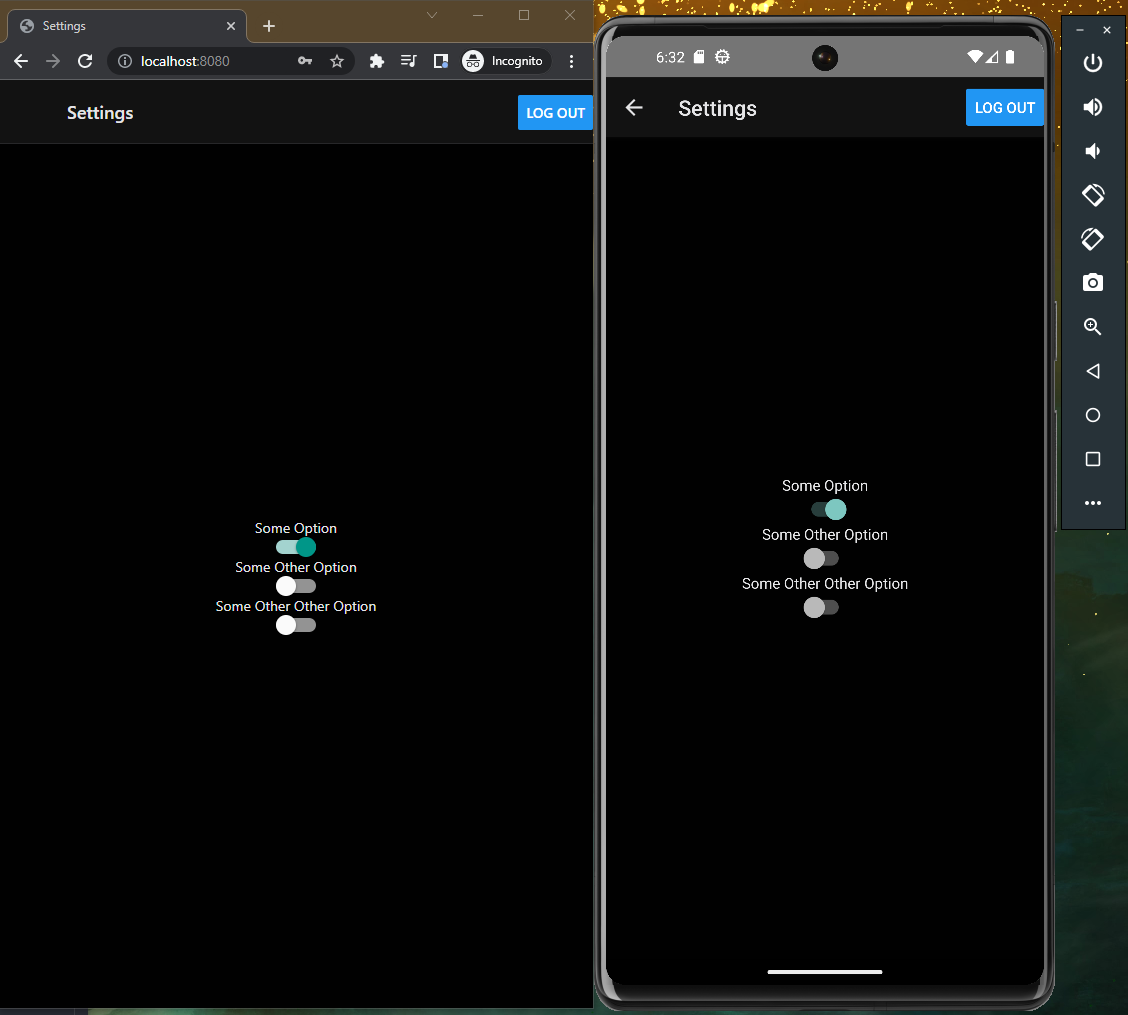
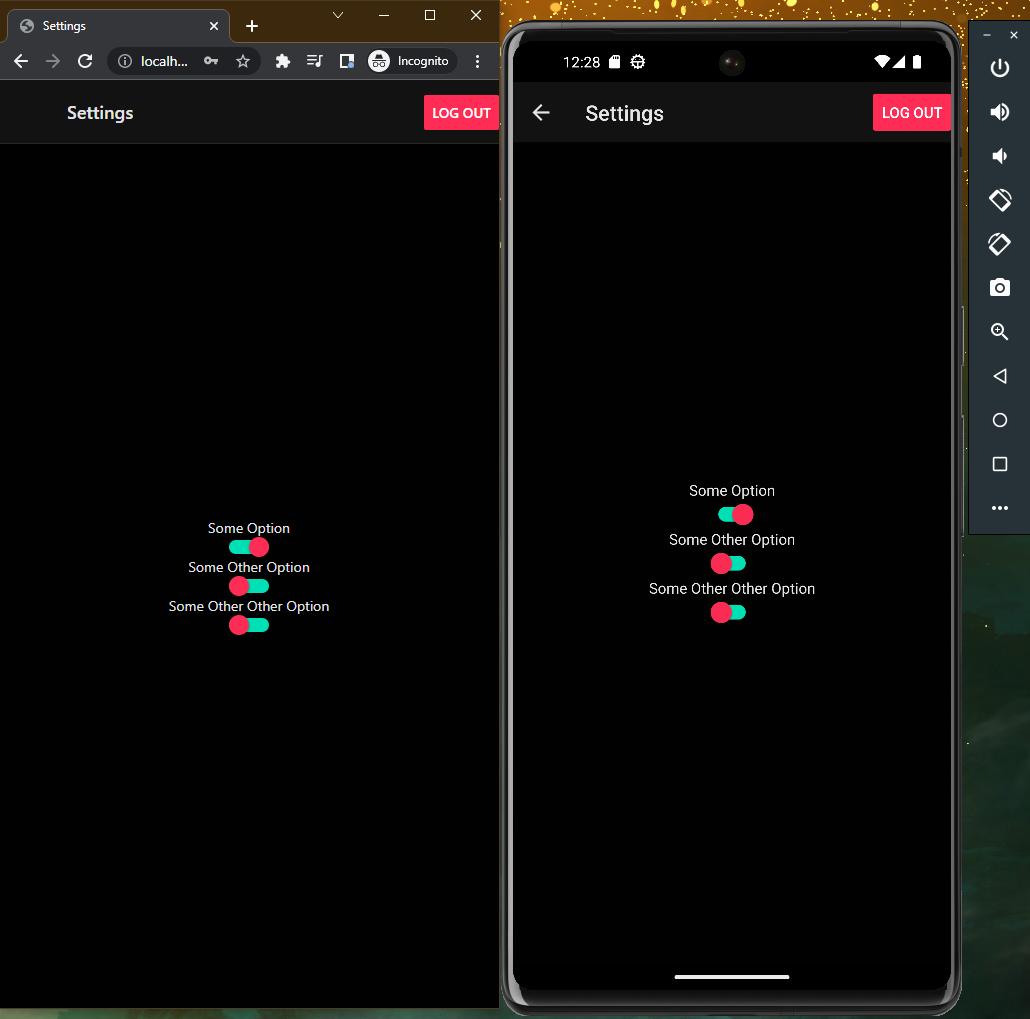
one test is currently failing

diff --git a/src/main/index.tsx b/src/main/index.tsx
@@ -5,6 +5,28 @@ import { useColorScheme } from 'react-native';
 import { Home, Login, LogoutButton, Settings } from '../screens';
 import './GestureHandler';
 
+export const baseColors = {
+  primary: '#ff2d55',
+  notification: '#00E0B5',
+  // override other colors here, if you like.
+};
+
+const CustomDarkTheme = {
+  ...DarkTheme,
+  colors: {
+    ...DarkTheme.colors,
+    ...baseColors,
+  },
+};
+
+const CustomDefaultTheme = {
+  ...DefaultTheme,
+  colors: {
+    ...DefaultTheme.colors,
+    ...baseColors,
+  },
+};
+
 export type AuthContextState = {
   signIn: (data: SignInParams) => Promise<void>;
   signOut: () => void;
@@ -59,10 +81,12 @@ function mainReducer(prevState: StateType, action: ActionType) {
 export function Main(): ReactElement {
   const [state, dispatch] = useReducer(mainReducer, initialState);
   const scheme = useColorScheme();
+  const theme = scheme === 'dark' ? CustomDarkTheme : CustomDefaultTheme;
 
   const authContext = useMemo(
     () => ({
       signIn: async ({ username, password }: SignInParams) => {
+        // eslint-disable-next-line no-console
         console.log(`Logging In: username: ${username} password: ${password}`);
         dispatch({ type: 'SIGN_IN', payload: 'dummy-auth-token' });
       },
@@ -72,7 +96,7 @@ export function Main(): ReactElement {
   );
 
   return (
-    <NavigationContainer theme={scheme === 'dark' ? DarkTheme : DefaultTheme}>
+    <NavigationContainer theme={theme}>
       <AuthContext.Provider value={authContext}>
         <Stack.Navigator
           screenOptions={{

diff --git a/src/screens/Login/index.tsx b/src/screens/Login/index.tsx
@@ -1,6 +1,6 @@
 import React, { ReactElement, useContext, useState } from 'react';
-import { Button, TextInput } from 'react-native';
-import { Container } from '../../components';
+import { StyleSheet } from 'react-native';
+import { Button, Container, Text, TextInput } from '../../components';
 import { AuthContext } from '../../main';
 
 export function Login(): ReactElement {
@@ -11,13 +11,15 @@ export function Login(): ReactElement {
 
   return (
     <Container>
+      <Text>Username</Text>
       <TextInput
-        placeholder='Username'
+        style={styles.textInput}
         value={username}
         onChangeText={setUsername}
       />
+      <Text>Password</Text>
       <TextInput
-        placeholder='Password'
+        style={styles.textInput}
         value={password}
         onChangeText={setPassword}
         secureTextEntry
@@ -39,3 +41,13 @@ export function LogoutButton(): ReactElement {
     />
   );
 }
+
+export const styles = StyleSheet.create({
+  textInput: {
+    marginBottom: 16,
+    marginTop: 4,
+    width: 256,
+    height: 40,
+    paddingLeft: 8,
+  },
+});

diff --git a/src/components/Switch/index.tsx b/src/components/Switch/index.tsx
@@ -1,0 +1,24 @@
+import { useTheme } from '@react-navigation/native';
+import React from 'react';
+import { Platform, Switch as DefaultSwitch, SwitchProps } from 'react-native';
+
+interface HybridSwitchProps extends SwitchProps {
+  activeThumbColor?: string | null | undefined;
+}
+
+export const Switch = (props: HybridSwitchProps) => {
+  const { colors } = useTheme();
+  const newProps = { ...props };
+  if (Platform.OS === 'web') {
+    newProps.activeThumbColor = colors.primary;
+  }
+
+  return (
+    <DefaultSwitch
+      trackColor={{ false: colors.notification, true: colors.notification }}
+      thumbColor={colors.primary}
+      ios_backgroundColor={colors.background}
+      {...props}
+    />
+  );
+};

diff --git a/src/screens/Home/index.tsx b/src/screens/Home/index.tsx
@@ -1,8 +1,7 @@
 import { useNavigation } from '@react-navigation/native';
 import { StackNavigationProp } from '@react-navigation/stack';
 import React, { ReactElement } from 'react';
-import { Button } from 'react-native';
-import { Container } from '../../components';
+import { Button, Container } from '../../components';
 import { MainStackParams } from '../../main';
 
 type NavigationProps = StackNavigationProp<MainStackParams, 'Home'>;
@@ -12,9 +11,9 @@ export function Home(): ReactElement {
   return (
     <Container>
       <Button
-        testID='settings'
         title='Go to Settings'
         onPress={() => navigate('Settings')}
+        testID='settings'
       />
     </Container>
   );

diff --git a/src/components/TextInput/index.tsx b/src/components/TextInput/index.tsx
@@ -1,0 +1,25 @@
+import { useTheme } from '@react-navigation/native';
+import React from 'react';
+import { TextInput as DefaultTextInput, TextInputProps } from 'react-native';
+
+export const TextInput = (props: TextInputProps) => {
+  const { style, ...otherProps } = props;
+  const { colors } = useTheme();
+
+  return (
+    <DefaultTextInput
+      style={[
+        // eslint-disable-next-line react-native/no-inline-styles
+        {
+          color: colors.text,
+          backgroundColor: colors.card,
+          borderColor: colors.border,
+          borderWidth: 1,
+          borderRadius: 2,
+        },
+        style,
+      ]}
+      {...otherProps}
+    />
+  );
+};

diff --git a/src/components/Button/index.tsx b/src/components/Button/index.tsx
@@ -1,0 +1,14 @@
+import { useTheme } from '@react-navigation/native';
+import React from 'react';
+import { Button as DefaultButton, ButtonProps } from 'react-native';
+
+export const Button = (props: ButtonProps) => {
+  const { colors } = useTheme();
+
+  return (
+    <DefaultButton
+      color={colors.primary}
+      {...props}
+    />
+  );
+};

diff --git a/src/screens/Settings/index.tsx b/src/screens/Settings/index.tsx
@@ -1,6 +1,5 @@
 import React, { ReactElement, useState } from 'react';
-import { Switch } from 'react-native';
-import { Container, Text } from '../../components';
+import { Container, Switch, Text } from '../../components';
 
 export function Settings(): ReactElement {
   const [switchVal1, setSwitchVal1] = useState(true);

diff --git a/src/components/index.tsx b/src/components/index.tsx
@@ -1,2 +1,5 @@
+export * from './Button';
 export * from './Container';
+export * from './Switch';
 export * from './Text';
+export * from './TextInput';

diff --git a/README.md b/README.md
@@ -7,6 +7,10 @@ A multi-platform react native/react native web base app that can be server as an
 ## Screenshot
 
 Running simultaneously on chrome and android. Changes will instantly reflect on both when you save code changes in your text editor.
+
+Login Screen:
+![Moweb Login Screen on Chrome and on Android](MowebLogin.PNG)
+Settings Screen:
 ![Moweb Settings Screen on Chrome and on Android](MowebSettings.PNG)
 
 ## Summary
